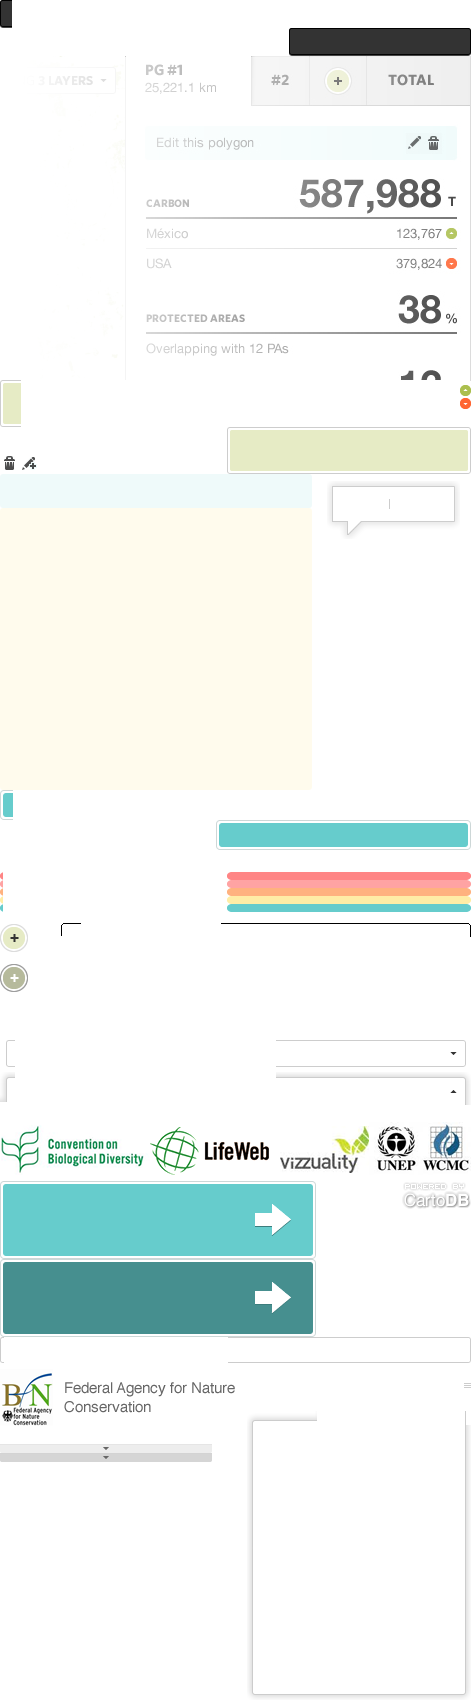
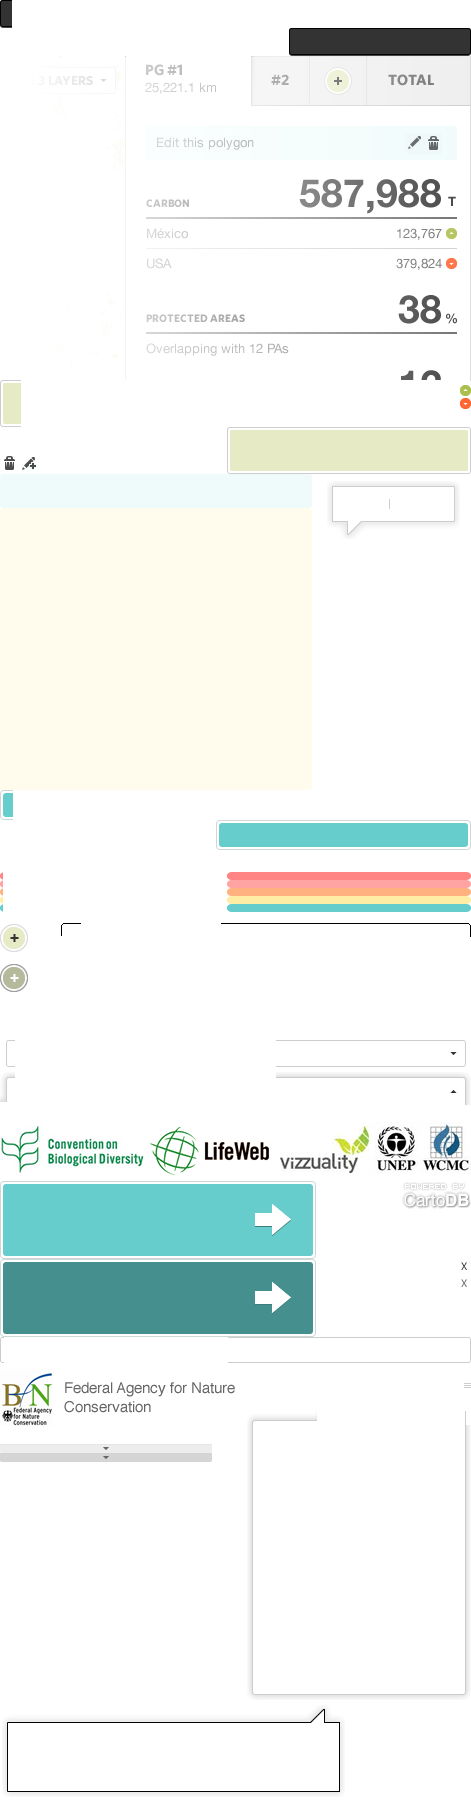
share tooltip

diff --git a/app/css_src/partials/_page.scss b/app/css_src/partials/_page.scss
@@ -59,18 +59,24 @@ body.tool {
     
 
     div.share_tooltip {
-      //display: none;
+      display: none;
       position: absolute;
-      top: 66px;
+      top: 30px;
       left: -145px;
       z-index: 100;
-      background: white;
-      border: 1px solid #000;
-      padding: 10px;
-      width: 331px;
+      @include background(left,-1700px,no-repeat);
+      padding: 33px 20px 20px 20px;
+      width: 312px;
       .close {
         float: right;
+        width: 12px;
+        height: 17px;
+        @include background(right,-1258px,no-repeat);
+        &:hover {
+          //@include background(right,-1275px,no-repeat);
+        }
       }
+
       h1 {
         margin: 0 0 5px;
         padding: 0;
@@ -79,6 +85,7 @@ body.tool {
         text-shadow: none;
       }
       .link {
+        width: 297px;
         background-color: rgb(242, 242, 242);
         border: 1px solid #999999;
         padding: 5px;

diff --git a/app/templates/index.html b/app/templates/index.html
@@ -48,7 +48,7 @@
           <li><a href="#share" class='share_button'><span><strong>SHARE</strong> THIS REPORT</span></a></li>
         </ul>
         <div class="share_tooltip">
-            <a href='#' class="close">x</a>
+            <a href='#' class="close"></a>
             <h1>share your report using this link</h1>
             <p class="link">http://dummy/path</p>
         </div>
